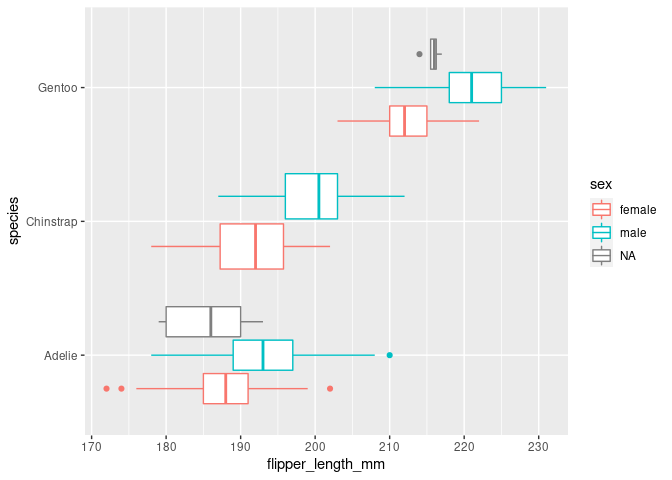
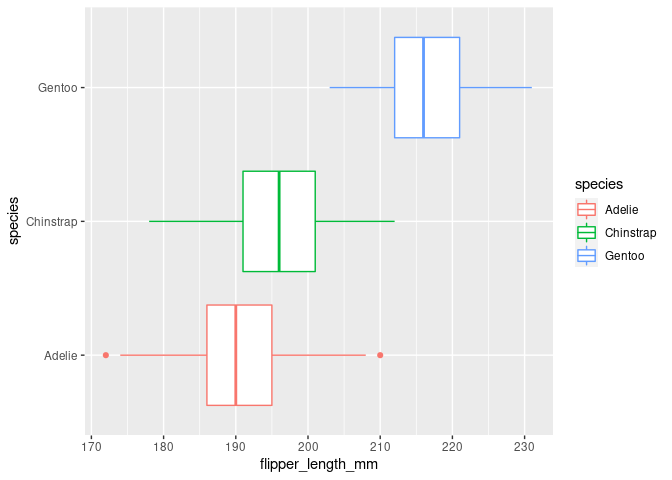
update plots for correct variable color

diff --git a/activity02-ggplot2-intro.md b/activity02-ggplot2-intro.md
@@ -147,7 +147,7 @@ code (i.e., replacing the `___`) to have our comparative boxplots also
 include some coloring.
 
 ``` r
-ggplot(data = penguins, mapping = aes(x = flipper_length_mm, y = species, color = sex)) +
+ggplot(data = penguins, mapping = aes(x = flipper_length_mm, y = species, color = species)) +
   geom_boxplot()
 ```
 
@@ -166,7 +166,7 @@ something similar with jitterplots using `geom_jitter`. In the code
 chunk below, complete it so that it produces a jitterplot.
 
 ``` r
-ggplot(data = penguins, mapping = aes(x = flipper_length_mm, y = species, color = sex)) +
+ggplot(data = penguins, mapping = aes(x = flipper_length_mm, y = species, color = species)) +
  geom_jitter()
 ```
 
@@ -192,7 +192,7 @@ GitHub and compare/contrast your `activity02-ggplot2-intro.Rmd` and
 `activity02-ggplot2-intro.md` files. Which is easier to read? Which
 looks more professional?
 
-**Response**:
+**Response**: .MD files look more professional
 
 Now, wouldn’t it be nice if we could combine these two plots so that we
 get the benefits of both!?! That is, how can we overlay the jitterplot
@@ -202,10 +202,23 @@ my *hint*:
 -   Re-create the boxplot with color that you did above, then
 -   *Add* another geometry layer for the jitterplot.
 
+``` r
+ggplot(data = penguins, mapping = aes(x = flipper_length_mm, y = species, color = species)) +
+  geom_boxplot() +
+  geom_jitter()
+```
+
+    ## Warning: Removed 2 rows containing non-finite values (stat_boxplot).
+
+    ## Warning: Removed 2 rows containing missing values (geom_point).
+
+![](activity02-ggplot2-intro_files/figure-gfm/box-jitter-combined-1.png)<!-- -->
+
 Play around with doing the jitterplot laid over the boxplot and the
 boxplot laid over the jitterplot. Which do you prefer? Why?
 
-**Response**:
+**Response**: I prefer the jitterplot overlaid the boxplot, I like being
+able to see all of the observations
 
 This is getting us closer to one of my favorite plots - the raincloud
 plot. We are not quite ready to create this plot, but we will get there
@@ -219,12 +232,24 @@ default white coloring. In the code chunk below, explore different
 methods to try to create this plot. A hint, all `geom_*` have a
 `mapping` argument.
 
+``` r
+ggplot(data = penguins, mapping = aes(x = flipper_length_mm, y = species, color = species)) +
+  geom_boxplot() +
+  geom_jitter()
+```
+
+    ## Warning: Removed 2 rows containing non-finite values (stat_boxplot).
+
+    ## Warning: Removed 2 rows containing missing values (geom_point).
+
+![](activity02-ggplot2-intro_files/figure-gfm/jitter-colored-only-1.png)<!-- -->
+
 In the above code chunk, continue to play around with having the
 aesthetics mapped in the different layers. For example, how does having
 all of them mapped in the `ggplot` call compared to having these instead
 mapped in the `geom_boxplot` layer? Comment on what you notice.
 
-**Response**:
+**Response**: come back to this one
 
 Knit, then stage everything listed in your **Git** pane, commit (with a
 meaningful commit message), and push to your GitHub repo. Go to GitHub
